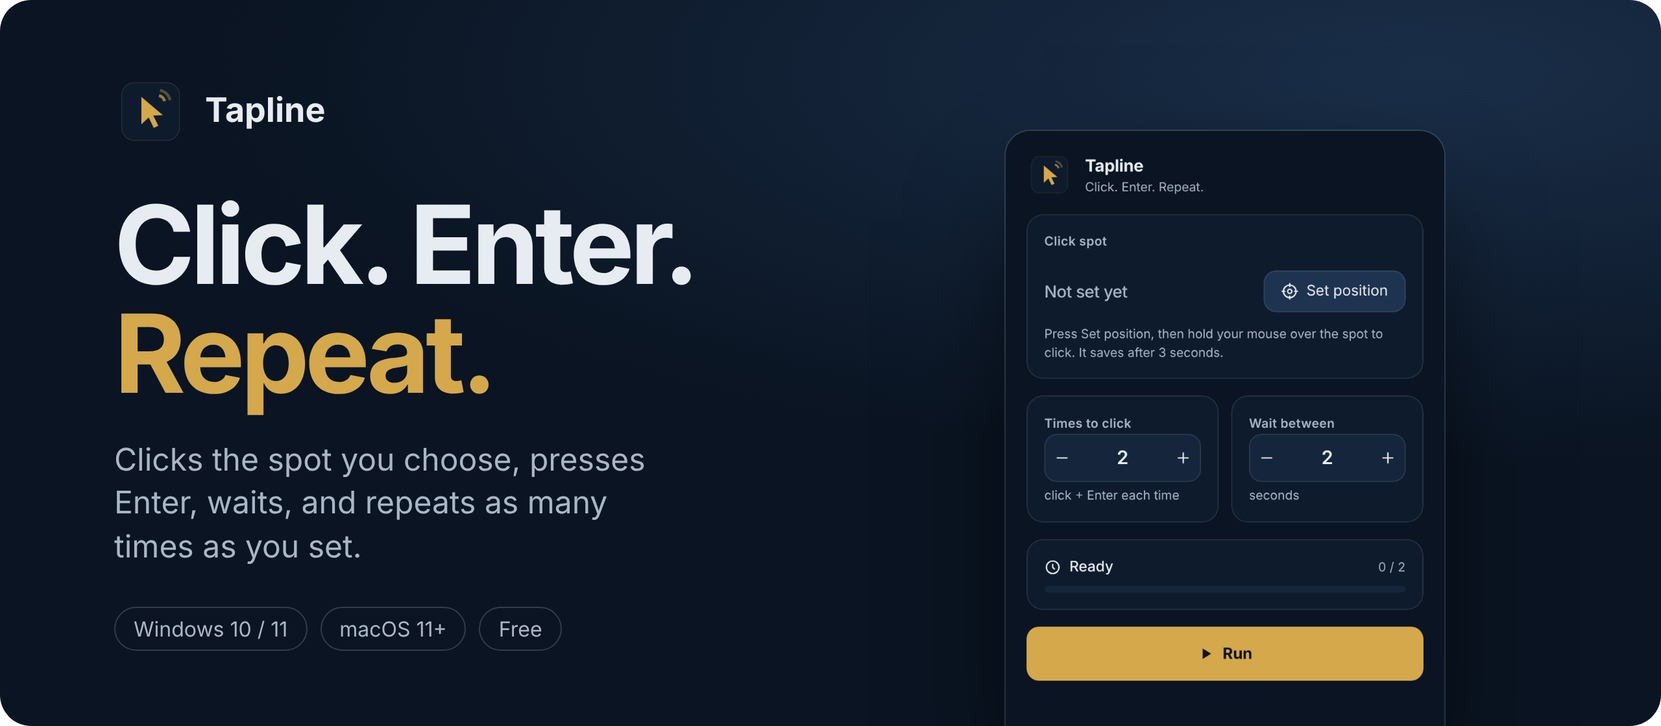
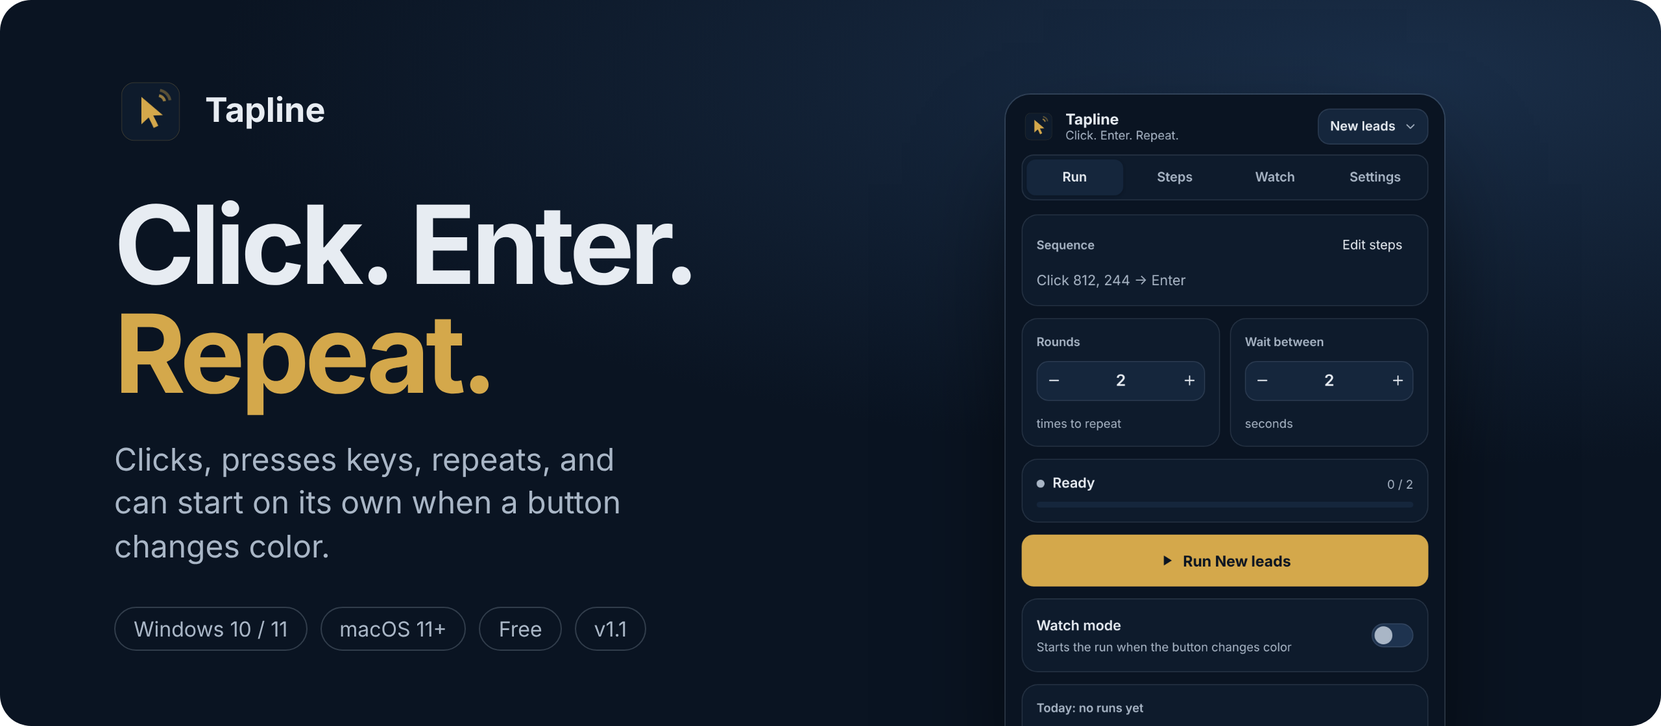
Fix self-triggered stops; README and website for 1.1; credit HanyJr
- Keys Tapline presses itself (Esc, the start/stop key) no longer stop
  the run; corner stop ignores spots Tapline placed the mouse on
- README and website describe Watch mode, steps, presets, mouse travel,
  emergency stop, tray, open at login and update notices
- Download links use fixed names Tapline-Windows-Setup.exe / Tapline-Mac.dmg
- Newer builds cancel older in-progress ones

Claude-Session: https://claude.ai/code/session_01AuYpcQuF6em3Bmbf2tiHe3

diff --git a/docs/index.html b/docs/index.html
@@ -4,7 +4,7 @@
 <meta charset="utf-8">
 <meta name="viewport" content="width=device-width, initial-scale=1">
 <title>Tapline - Click. Enter. Repeat.</title>
-<meta name="description" content="Tapline clicks the spot you choose, presses Enter, waits, and repeats as many times as you set. Free for Windows and Mac.">
+<meta name="description" content="Tapline runs your clicks and key presses, repeats them, and can start on its own when a button changes color. Free for Windows and Mac.">
[1 lines of base64/hex data omitted]
 <link rel="preconnect" href="https://fonts.googleapis.com">
 <link rel="preconnect" href="https://fonts.gstatic.com" crossorigin>
@@ -123,6 +123,18 @@ nav .wrap{display:flex;align-items:center;gap:20px;min-height:64px}
 .f.wide{grid-column:span 3}
 .f p{color:var(--muted)}
 .f svg{width:26px;height:26px;color:var(--gold-ink)}
+.watchband{display:grid;grid-template-columns:minmax(0,1fr) minmax(0,1fr);gap:clamp(24px,5vw,64px);align-items:center}
+@media(max-width:860px){.watchband{grid-template-columns:minmax(0,1fr)}}
+.ticks{list-style:none;padding:0;margin-top:22px;display:grid;gap:10px}
+.ticks li{display:grid;grid-template-columns:22px 1fr;gap:10px;color:var(--muted)}
+.ticks li::before{content:"";width:18px;height:18px;margin-top:3px;border-radius:50%;border:1.5px solid var(--gold-ink);background:radial-gradient(circle,var(--gold-ink) 0 3px,transparent 4px)}
+.wfig{background:var(--surface);border:1px solid var(--line);border-radius:24px;padding:clamp(24px,4vw,44px);display:flex;align-items:center;justify-content:space-between;gap:12px;flex-wrap:wrap;box-shadow:var(--shadow)}
+.wstate{display:grid;gap:12px;justify-items:center;text-align:center;flex:1}
+.wstate small{color:var(--muted);font-size:13px}
+.wbtn{display:inline-flex;align-items:center;gap:8px;padding:12px 18px;border-radius:12px;background:var(--raised);border:1px solid var(--line);font-weight:600;white-space:nowrap}
+.wbtn.hot{background:#c8423a;color:#fff;border-color:transparent;box-shadow:0 0 0 6px rgba(200,66,58,.18)}
+.wbtn b{background:#fff;color:#c8423a;border-radius:99px;font-size:12px;padding:1px 7px}
+.warrow{width:48px;height:24px;color:var(--gold-ink);flex:none}
 .big{font:700 clamp(40px,5vw,56px)/1 "Inter Tight",sans-serif;color:var(--gold-ink);letter-spacing:-.03em}
 @media(max-width:900px){.f,.f.wide{grid-column:span 3}}
 @media(max-width:600px){.f,.f.wide{grid-column:span 6}}
@@ -159,14 +171,14 @@ details p{color:var(--muted);padding:0 0 20px;max-width:64ch}
 .final .btn.primary:hover{background:#e0b85c}
 footer{padding:36px 0 48px;color:var(--muted);font-size:14px;display:flex;flex-wrap:wrap;gap:12px 24px;justify-content:space-between}
 footer a{text-decoration:none}footer a:hover{color:var(--ink)}
-@media(max-width:360px){.btn{white-space:normal;padding:0 16px}.brand{font-size:16px}}
+@media(max-width:360px){.btn{white-space:normal;padding:0 16px}.brand{font-size:16px}.wfig{padding:18px}.wbtn{padding:10px 12px;font-size:14px}}
 @media(prefers-reduced-motion:reduce){*{transition:none!important;animation:none!important}html{scroll-behavior:auto}}
 </style>
 </head>
 <body>
 <nav><div class="wrap">
[1 lines of base64/hex data omitted]
-  <div class="links"><a href="#how">How it works</a><a href="#features">Features</a><a href="#install">Install</a><a href="#faq">Questions</a></div>
+  <div class="links"><a href="#how">How it works</a><a href="#watch">Watch mode</a><a href="#features">Features</a><a href="#install">Install</a><a href="#faq">Questions</a></div>
   <a class="btn primary sm" href="#install">Download</a>
 </div></nav>
 
@@ -174,12 +186,12 @@ footer a{text-decoration:none}footer a:hover{color:var(--ink)}
   <header class="hero">
     <h1>Click. Enter. <span>Repeat.</span></h1>
     <div class="hero-side">
-    <p class="lede">Tapline clicks the spot you choose, presses Enter, waits, and does it again as many times as you set. One key starts it. The same key stops it.</p>
+    <p class="lede">Tapline clicks the spot you choose, presses Enter, waits, and does it again as many times as you set. Or let it watch the button and start the moment it changes color.</p>
     <div class="ctas">
       <a class="btn primary" id="dl-main" href="#install"><svg viewBox="0 0 24 24" fill="none" stroke="currentColor" stroke-width="2" stroke-linecap="round" stroke-linejoin="round" aria-hidden="true"><path d="M12 3v12M7 10l5 5 5-5M5 21h14"/></svg><span class="t" id="dl-main-t">Download Tapline<small>Windows and Mac</small></span></a>
       <a class="btn" href="#how">See how it works</a>
     </div>
-    <p class="meta">Free · Windows 10 and 11 · macOS 11 or later, Apple Silicon and Intel · No account</p>
+    <p class="meta">Free · Version 1.1 · Windows 10 and 11 · macOS 11 or later, Apple Silicon and Intel · No account</p>
     </div>
   </header>
 
@@ -194,31 +206,57 @@ footer a{text-decoration:none}footer a:hover{color:var(--ink)}
     <div class="app" aria-hidden="true">
[1 lines of base64/hex data omitted]
       <div class="cell"><div class="cell-l">Click spot</div><div class="pos">812, 244</div></div>
-      <div class="duo"><div class="cell"><div class="cell-l">Times to click</div><div class="num">3</div></div><div class="cell"><div class="cell-l">Wait between</div><div class="num">2 sec</div></div></div>
+      <div class="duo"><div class="cell"><div class="cell-l">Rounds</div><div class="num">3</div></div><div class="cell"><div class="cell-l">Wait between</div><div class="num">2 sec</div></div></div>
       <div class="cell"><div class="st"><span id="d-st">Ready</span><span id="d-ct">0 / 3</span></div><div class="meter"><i id="d-bar"></i></div></div>
       <div class="run" id="d-run">Run</div>
     </div>
     <svg class="cursor" id="cursor" viewBox="0 0 24 24" aria-hidden="true"><path d="M5 3v17l4.7-4.4 3.2 6.7 2.9-1.4-3.2-6.6 6.4-.3z" fill="#fff" stroke="#0a1422" stroke-width="1.4" stroke-linejoin="round"/></svg>
     <div class="key" id="key">Enter</div>
   </section>
-  <p class="cap">A live demo: Tapline set to 3 clicks, 2 seconds apart.</p>
+  <p class="cap">A live demo: Tapline set to 3 rounds of click and Enter, 2 seconds apart.</p>
 
   <section class="band" id="how">
     <h2>Set it up once. Run it all day.</h2>
     <div class="steps">
-      <div class="step"><h3>Pick the spot</h3><p>Press Set position and hold your mouse over the button you want clicked. Tapline saves it after 3 seconds and remembers it next time.</p></div>
-      <div class="step"><h3>Choose how many and how fast</h3><p>Set how many times to click, from 1 to 999, and how long to wait between each, from no wait to 10 minutes.</p></div>
-      <div class="step"><h3>Press F8</h3><p>Tapline clicks, presses Enter, waits and repeats. Press F8 again or Stop to end early. You can stay in your work window the whole time.</p></div>
+      <div class="step"><h3>Build your steps</h3><p>Point at the button and Tapline remembers it. Add Enter, Tab, a shortcut, some text or a wait. Each step can have its own pause, and the mouse can jump or glide.</p></div>
+      <div class="step"><h3>Choose how many</h3><p>Repeat 1 to 999 rounds, with anything from no wait to 10 minutes between them. Save each setup as a preset.</p></div>
+      <div class="step"><h3>Press F8, or let Watch start it</h3><p>Run it yourself with one key, from any window. Or switch Watch on and Tapline starts by itself when the button changes color.</p></div>
+    </div>
+  </section>
+
+  <section class="band watchband" id="watch" style="padding-top:0">
+    <div>
+      <h2>It can start without you.</h2>
+      <p class="lede" style="margin-top:16px">Watch mode keeps an eye on one spot. When the button turns its "new" color, Tapline runs your steps, waits for the button to go back to normal, rests for a cooldown, and is ready again.</p>
+      <ul class="ticks">
+        <li><span>Sensitivity control for small color differences</span></li>
+        <li><span>Cooldown so it never fires twice for the same thing</span></li>
+        <li><span>A sound and a notification each time it starts</span></li>
+        <li><span><kbd>Esc</kbd> switches everything off instantly</span></li>
+      </ul>
+    </div>
+    <div class="wfig" aria-hidden="true">
+      <div class="wstate"><span class="wbtn">New leads</span><small>Normal: Tapline waits</small></div>
+      <svg class="warrow" viewBox="0 0 48 24"><path d="M2 12h40M34 4l8 8-8 8" fill="none" stroke="currentColor" stroke-width="2.5" stroke-linecap="round" stroke-linejoin="round"/></svg>
+      <div class="wstate"><span class="wbtn hot">New leads <b>3</b></span><small>Turns red: Tapline runs</small></div>
     </div>
   </section>
 
   <section class="band" id="features" style="padding-top:0">
     <h2>Small, quiet, and exact.</h2>
     <div class="grid">
-      <div class="f wide"><div class="big">1 – 999</div><h3>As many rounds as you need</h3><p>Every round is one click and one Enter, with your wait in between. Watch the count and progress bar as it goes.</p></div>
-      <div class="f wide"><div class="big">F8</div><h3>Start and stop from anywhere</h3><p>No need to switch windows. On a Mac keyboard press <kbd>fn</kbd> + <kbd>F8</kbd>. The Run and Stop buttons always work too.</p></div>
-      <div class="f"><svg viewBox="0 0 24 24" fill="none" stroke="currentColor" stroke-width="2" stroke-linecap="round" stroke-linejoin="round" aria-hidden="true"><rect x="3" y="4" width="18" height="14" rx="2"/><path d="M8 21h8"/></svg><h3>Floats on top</h3><p>A small window that stays above your work, so the progress is always in view.</p></div>
-      <div class="f"><svg viewBox="0 0 24 24" fill="none" stroke="currentColor" stroke-width="2" stroke-linecap="round" stroke-linejoin="round" aria-hidden="true"><path d="M12 3l8 3v6c0 4.5-3.4 8-8 9-4.6-1-8-4.5-8-9V6z"/></svg><h3>Private by design</h3><p>No account and no internet. Everything stays on your computer.</p></div>
+      <div class="f wide"><div class="big">1 – 999</div><h3>As many rounds as you need</h3><p>Every round runs your steps, then waits as long as you set. Watch the count and progress bar as it goes.</p></div>
+      <div class="f wide"><div class="big">F8</div><h3>Start and stop from anywhere</h3><p>Choose F1 to F12, with or without Ctrl, Shift or Alt. On a Mac keyboard hold <kbd>fn</kbd>. The Run and Stop buttons always work too.</p></div>
+      <div class="f"><svg viewBox="0 0 24 24" fill="none" stroke="currentColor" stroke-width="2" stroke-linecap="round" stroke-linejoin="round" aria-hidden="true"><path d="M4 6h16M4 12h10M4 18h6"/></svg><h3>Steps</h3><p>Left, right or double click, any key with Ctrl, Shift, Alt or Cmd, typed text and waits.</p></div>
+      <div class="f"><svg viewBox="0 0 24 24" fill="none" stroke="currentColor" stroke-width="2" stroke-linecap="round" stroke-linejoin="round" aria-hidden="true"><path d="M4 20c4-1 6-5 8-8s4-7 8-8"/><circle cx="20" cy="4" r="1.5"/></svg><h3>Mouse travel time</h3><p>Set how many milliseconds the mouse takes to glide to each spot, or jump instantly.</p></div>
+      <div class="f"><svg viewBox="0 0 24 24" fill="none" stroke="currentColor" stroke-width="2" stroke-linecap="round" stroke-linejoin="round" aria-hidden="true"><rect x="4" y="4" width="16" height="6" rx="1.5"/><rect x="4" y="14" width="16" height="6" rx="1.5"/></svg><h3>Presets</h3><p>Keep several setups, like New leads and Refresh queue, and switch in one click.</p></div>
+      <div class="f"><svg viewBox="0 0 24 24" fill="none" stroke="currentColor" stroke-width="2" stroke-linecap="round" stroke-linejoin="round" aria-hidden="true"><circle cx="12" cy="12" r="9"/><path d="M9 9l6 6M15 9l-6 6"/></svg><h3>Emergency stop</h3><p>Press <kbd>Esc</kbd>, or slam the mouse into a screen corner, and everything stops.</p></div>
+      <div class="f"><svg viewBox="0 0 24 24" fill="none" stroke="currentColor" stroke-width="2" stroke-linecap="round" stroke-linejoin="round" aria-hidden="true"><path d="M6 8a6 6 0 1 1 12 0c0 7 3 9 3 9H3s3-2 3-9M10 21h4"/></svg><h3>Sound and notification</h3><p>Know the moment Watch starts a run, even with the window hidden.</p></div>
+      <div class="f"><svg viewBox="0 0 24 24" fill="none" stroke="currentColor" stroke-width="2" stroke-linecap="round" stroke-linejoin="round" aria-hidden="true"><circle cx="12" cy="12" r="9"/><path d="M12 7v5l3 2"/></svg><h3>History</h3><p>See today's runs, what started them and when the last one happened.</p></div>
+      <div class="f"><svg viewBox="0 0 24 24" fill="none" stroke="currentColor" stroke-width="2" stroke-linecap="round" stroke-linejoin="round" aria-hidden="true"><rect x="3" y="4" width="18" height="14" rx="2"/><path d="M8 21h8"/></svg><h3>Tray and menu bar</h3><p>Close the window and keep it running. Run, watch or quit from the icon.</p></div>
+      <div class="f"><svg viewBox="0 0 24 24" fill="none" stroke="currentColor" stroke-width="2" stroke-linecap="round" stroke-linejoin="round" aria-hidden="true"><path d="M12 3v9M6.3 7.3a8 8 0 1 0 11.4 0"/></svg><h3>Open at login</h3><p>Ready as soon as you turn on your computer.</p></div>
+      <div class="f"><svg viewBox="0 0 24 24" fill="none" stroke="currentColor" stroke-width="2" stroke-linecap="round" stroke-linejoin="round" aria-hidden="true"><path d="M21 12a9 9 0 1 1-3-6.7L21 8M21 3v5h-5"/></svg><h3>Update notices</h3><p>Tapline tells you when a new version is out, with a one-click download.</p></div>
+      <div class="f"><svg viewBox="0 0 24 24" fill="none" stroke="currentColor" stroke-width="2" stroke-linecap="round" stroke-linejoin="round" aria-hidden="true"><path d="M12 3l8 3v6c0 4.5-3.4 8-8 9-4.6-1-8-4.5-8-9V6z"/></svg><h3>Private by design</h3><p>No account, nothing sent anywhere. The only connection is the update check.</p></div>
       <div class="f"><svg viewBox="0 0 24 24" fill="none" stroke="currentColor" stroke-width="2" stroke-linecap="round" stroke-linejoin="round" aria-hidden="true"><path d="M13 2 4 14h7l-1 8 9-12h-7z"/></svg><h3>Light and instant</h3><p>Built with Tauri and Rust, so it opens straight away and barely touches your memory.</p></div>
     </div>
   </section>
@@ -232,20 +270,21 @@ footer a{text-decoration:none}footer a:hover{color:var(--ink)}
       </div>
       <div class="panel" id="p-win" role="tabpanel" aria-labelledby="tab-win">
         <ol>
-          <li>Download the installer.</li>
+          <li>Download <b>Tapline-Windows-Setup.exe</b>.</li>
           <li>Open it. If you see <b>Windows protected your PC</b>, press <b>More info</b>, then <b>Run anyway</b>.</li>
           <li>Tapline installs for your user only, no admin needed, and appears in the Start menu.</li>
         </ol>
-        <a class="btn primary" href="https://github.com/HanyJr/tapline/releases/latest/download/Tapline_1.0.0_x64-setup.exe"><svg viewBox="0 0 24 24" fill="currentColor" aria-hidden="true"><path d="M3 5.5 10.5 4.4v7.1H3zM11.5 4.3 21 3v8.5h-9.5zM3 12.5h7.5v7.1L3 18.5zM11.5 12.5H21V21l-9.5-1.3z"/></svg><span class="t">Download for Windows<small>Installer, .exe</small></span></a>
+        <a class="btn primary" href="https://github.com/HanyJr/tapline/releases/latest/download/Tapline-Windows-Setup.exe"><svg viewBox="0 0 24 24" fill="currentColor" aria-hidden="true"><path d="M3 5.5 10.5 4.4v7.1H3zM11.5 4.3 21 3v8.5h-9.5zM3 12.5h7.5v7.1L3 18.5zM11.5 12.5H21V21l-9.5-1.3z"/></svg><span class="t">Download for Windows<small>Installer, .exe</small></span></a>
       </div>
       <div class="panel" id="p-mac" role="tabpanel" aria-labelledby="tab-mac" hidden>
         <ol>
-          <li>Download the disk image. It runs on Apple Silicon and Intel.</li>
+          <li>Download <b>Tapline-Mac.dmg</b>. It runs on Apple Silicon and Intel.</li>
           <li>Open it and drag <b>Tapline</b> into <b>Applications</b>.</li>
           <li>First launch: right-click Tapline, choose <b>Open</b>, then <b>Open</b> again. On macOS 15 or later use <b>System Settings, Privacy &amp; Security, Open Anyway</b>.</li>
           <li>When asked, allow Tapline under <b>Privacy &amp; Security, Accessibility</b>. That's what lets it click for you.</li>
+          <li>For Watch mode, also allow it under <b>Screen Recording</b>, then reopen Tapline. It only reads the color of the spot you chose.</li>
         </ol>
-        <a class="btn primary" href="https://github.com/HanyJr/tapline/releases/latest/download/Tapline_1.0.0_universal.dmg"><svg viewBox="0 0 24 24" fill="currentColor" aria-hidden="true"><path d="M16.4 12.6c0-2.4 2-3.6 2.1-3.7-1.1-1.7-2.9-1.9-3.5-1.9-1.5-.2-2.9.9-3.7.9-.8 0-1.9-.9-3.2-.8-1.6 0-3.1 1-4 2.4-1.7 3-.4 7.4 1.2 9.8.8 1.2 1.8 2.5 3 2.4 1.2 0 1.7-.8 3.1-.8s1.9.8 3.2.8c1.3 0 2.1-1.2 2.9-2.4.9-1.4 1.3-2.7 1.3-2.8 0 0-2.4-1-2.4-3.9zM14 5.5c.7-.8 1.1-1.9 1-3-.9 0-2.1.6-2.8 1.4-.6.7-1.2 1.8-1 2.9 1.1.1 2.1-.5 2.8-1.3z"/></svg><span class="t">Download for Mac<small>Disk image, .dmg</small></span></a>
+        <a class="btn primary" href="https://github.com/HanyJr/tapline/releases/latest/download/Tapline-Mac.dmg"><svg viewBox="0 0 24 24" fill="currentColor" aria-hidden="true"><path d="M16.4 12.6c0-2.4 2-3.6 2.1-3.7-1.1-1.7-2.9-1.9-3.5-1.9-1.5-.2-2.9.9-3.7.9-.8 0-1.9-.9-3.2-.8-1.6 0-3.1 1-4 2.4-1.7 3-.4 7.4 1.2 9.8.8 1.2 1.8 2.5 3 2.4 1.2 0 1.7-.8 3.1-.8s1.9.8 3.2.8c1.3 0 2.1-1.2 2.9-2.4.9-1.4 1.3-2.7 1.3-2.8 0 0-2.4-1-2.4-3.9zM14 5.5c.7-.8 1.1-1.9 1-3-.9 0-2.1.6-2.8 1.4-.6.7-1.2 1.8-1 2.9 1.1.1 2.1-.5 2.8-1.3z"/></svg><span class="t">Download for Mac<small>Disk image, .dmg</small></span></a>
       </div>
       <p class="note">Other versions and release notes are on the <a href="https://github.com/HanyJr/tapline/releases">releases page</a>.</p>
     </div>
@@ -254,7 +293,9 @@ footer a{text-decoration:none}footer a:hover{color:var(--ink)}
   <section class="band" id="faq" style="padding-top:0">
     <h2>Questions</h2>
     <div class="faq">
-      <details><summary>Where does it click?</summary><p>Exactly where your mouse was when you set the position. If the window you click in moves or changes size, set the position again.</p></details>
+      <details><summary>Where does it click?</summary><p>Exactly where your mouse was when you set the spot. If the window you click in moves or changes size, set the spot again.</p></details>
+      <details><summary>How does Watch know something new arrived?</summary><p>It checks the color of one spot about four times a second. When it matches the color you saved, it runs your steps. Then it waits for the spot to change back and for the cooldown before it can run again.</p></details>
+      <details><summary>Does Watch work if the window is covered or the screen is locked?</summary><p>No. Tapline can only see what is on screen, so keep that spot visible and the computer unlocked while it watches.</p></details>
       <details><summary>Can I stop it halfway?</summary><p>Yes. Press F8 or Stop at any moment, including during a wait. Tapline tells you how many rounds it finished.</p></details>
       <details><summary>Why does my Mac ask for Accessibility access?</summary><p>macOS only lets apps click and type for you once you allow them. Tapline uses that permission for clicking and pressing Enter, nothing else.</p></details>
       <details><summary>Why does Windows or macOS warn me the first time?</summary><p>Tapline isn't code-signed yet, so both systems ask you to confirm the first launch. The install steps above show how. You only do it once.</p></details>
@@ -264,11 +305,11 @@ footer a{text-decoration:none}footer a:hover{color:var(--ink)}
 
   <section class="final">
     <h2>Give your mouse hand a break.</h2>
-    <p>Set the spot, pick how many and press F8. Tapline does the rest.</p>
-    <div class="ctas"><a class="btn primary" href="https://github.com/HanyJr/tapline/releases/latest/download/Tapline_1.0.0_x64-setup.exe">Download for Windows</a><a class="btn" href="https://github.com/HanyJr/tapline/releases/latest/download/Tapline_1.0.0_universal.dmg">Download for Mac</a></div>
+    <p>Set your steps, pick how many and press F8, or let Watch start it for you.</p>
+    <div class="ctas"><a class="btn primary" href="https://github.com/HanyJr/tapline/releases/latest/download/Tapline-Windows-Setup.exe">Download for Windows</a><a class="btn" href="https://github.com/HanyJr/tapline/releases/latest/download/Tapline-Mac.dmg">Download for Mac</a></div>
   </section>
 
-  <footer><span>Copyright 2026 Ian Brown · Tapline 1.0</span><a href="https://github.com/HanyJr/tapline">GitHub</a></footer>
+  <footer><span>Copyright 2026 HanyJr · Tapline 1.1</span><a href="https://github.com/HanyJr/tapline">GitHub</a></footer>
 </main>
 
 <script>
@@ -279,8 +320,8 @@ footer a{text-decoration:none}footer a:hover{color:var(--ink)}
   // Main button: offer the visitor's own system
   const ua = navigator.userAgent, isMac = /Mac/.test(ua) && !/iPhone|iPad/.test(ua), isWin = /Windows/.test(ua);
   if (isMac || isWin) {
-    $("dl-main").href = isMac ? "https://github.com/HanyJr/tapline/releases/latest/download/Tapline_1.0.0_universal.dmg" : "https://github.com/HanyJr/tapline/releases/latest/download/Tapline_1.0.0_x64-setup.exe";
-    $("dl-main-t").innerHTML = (isMac ? "Download for Mac" : "Download for Windows") + "<small>Free · version 1.0</small>";
+    $("dl-main").href = isMac ? "https://github.com/HanyJr/tapline/releases/latest/download/Tapline-Mac.dmg" : "https://github.com/HanyJr/tapline/releases/latest/download/Tapline-Windows-Setup.exe";
+    $("dl-main-t").innerHTML = (isMac ? "Download for Mac" : "Download for Windows") + "<small>Free · version 1.1</small>";
   }
   if (isMac) selectTab("mac");
 

diff --git a/src-tauri/src/lib.rs b/src-tauri/src/lib.rs
@@ -180,6 +180,7 @@ struct Shared {
     log: Mutex<Vec<LogEntry>>,
     dir: PathBuf,
     hotkey: Mutex<Option<Shortcut>>,
+    quiet_until: Mutex<Instant>, // ignore our own key presses reaching the global shortcuts
     tray: Mutex<Option<(MenuItem<Wry>, MenuItem<Wry>)>>,
 }
 
@@ -356,6 +357,7 @@ fn start_run(app: &AppHandle, trigger: &str) -> Result<(), String> {
         let outcome: Result<bool, String> = (|| {
             let mut enigo = new_enigo()?;
             let screen = enigo.main_display().unwrap_or((0, 0));
+            let placed: std::cell::Cell<Option<(i32, i32)>> = std::cell::Cell::new(None);
             let stop_now = |enigo: &Enigo| -> bool {
                 if sh.stop.load(Ordering::SeqCst) {
                     return true;
@@ -365,7 +367,9 @@ fn start_run(app: &AppHandle, trigger: &str) -> Result<(), String> {
                         let (w, h) = screen;
                         let near = |a: i32, b: i32| (a - b).abs() <= 2;
                         let in_corner = (near(x, 0) || near(x, w - 1)) && (near(y, 0) || near(y, h - 1));
-                        if in_corner {
+                        // ignore it when Tapline itself put the mouse there
+                        let ours = placed.get().map(|(px, py)| near(x, px) && near(y, py)).unwrap_or(false);
+                        if in_corner && !ours {
                             sh.stop.store(true, Ordering::SeqCst);
                             return true;
                         }
@@ -393,6 +397,10 @@ fn start_run(app: &AppHandle, trigger: &str) -> Result<(), String> {
                         return Ok(false);
                     }
                     emit("busy", format!("Round {} of {} · step {}", r + 1, total, i + 1), done, false);
+                    let typing = st.kind == "key" || st.kind == "text";
+                    if typing {
+                        *sh.quiet_until.lock().unwrap() = Instant::now() + Duration::from_secs(30);
+                    }
                     let res: Result<(), enigo::InputError> = match st.kind.as_str() {
                         "click" => (|| {
                             let (tx, ty) = (st.x.unwrap_or(0), st.y.unwrap_or(0));
@@ -413,6 +421,7 @@ fn start_run(app: &AppHandle, trigger: &str) -> Result<(), String> {
                                 }
                             }
                             enigo.move_mouse(tx, ty, Coordinate::Abs)?;
+                            placed.set(Some((tx, ty)));
                             thread::sleep(Duration::from_millis(40));
                             match st.button.as_str() {
                                 "right" => enigo.button(Button::Right, Direction::Click)?,
@@ -445,6 +454,9 @@ fn start_run(app: &AppHandle, trigger: &str) -> Result<(), String> {
                         }
                         _ => Ok(()),
                     };
+                    if typing {
+                        *sh.quiet_until.lock().unwrap() = Instant::now() + Duration::from_millis(300);
+                    }
                     res.map_err(|e| format!("Could not do step {}: {e}", i + 1))?;
                     if st.kind != "wait" && !pause(&enigo, st.delay) {
                         return Ok(false);
@@ -832,6 +844,11 @@ pub fn run_app() {
                     if event.state() != ShortcutState::Pressed {
                         return;
                     }
+                    // a key Tapline itself just pressed, not the user
+                    let quiet = app.state::<Arc<Shared>>().quiet_until.lock().map(|t| Instant::now() < *t).unwrap_or(false);
+                    if quiet {
+                        return;
+                    }
                     if *shortcut == esc() {
                         stop_everything(app);
                         return;
@@ -857,6 +874,7 @@ pub fn run_app() {
                 log: Mutex::new(log),
                 dir,
                 hotkey: Mutex::new(None),
+                quiet_until: Mutex::new(Instant::now()),
                 tray: Mutex::new(None),
             });
             app.manage(shared.clone());

diff --git a/README.md b/README.md
@@ -3,48 +3,65 @@
 </p>
 
 <p align="center">
-  <a href="https://github.com/HanyJr/tapline/releases/latest/download/Tapline_1.0.0_x64-setup.exe"><img src=".github/assets/download-windows.png" alt="Download for Windows" height="56"></a>
+  <a href="https://github.com/HanyJr/tapline/releases/latest/download/Tapline-Windows-Setup.exe"><img src=".github/assets/download-windows.png" alt="Download for Windows" height="56"></a>
   &nbsp;
-  <a href="https://github.com/HanyJr/tapline/releases/latest/download/Tapline_1.0.0_universal.dmg"><img src=".github/assets/download-mac.png" alt="Download for Mac" height="56"></a>
+  <a href="https://github.com/HanyJr/tapline/releases/latest/download/Tapline-Mac.dmg"><img src=".github/assets/download-mac.png" alt="Download for Mac" height="56"></a>
 </p>
 
 <p align="center">
-  <b>Version 1.0.0</b> &nbsp;·&nbsp; Free &nbsp;·&nbsp; Windows 10 and 11 &nbsp;·&nbsp; macOS 11 or later &nbsp;·&nbsp; <a href="https://github.com/HanyJr/tapline/releases">All releases</a>
+  <b>Version 1.1</b> &nbsp;·&nbsp; Free &nbsp;·&nbsp; Windows 10 and 11 &nbsp;·&nbsp; macOS 11 or later &nbsp;·&nbsp; <a href="https://hanyjr.github.io/tapline/">Website</a> &nbsp;·&nbsp; <a href="https://github.com/HanyJr/tapline/releases">All releases</a>
 </p>
 
 <br>
 
 ## What it does
 
-Tapline clicks the spot you choose, presses **Enter**, waits, and does it again as many times as you set. One key starts it, the same key stops it.
+Tapline runs a short sequence of clicks and key presses, repeats it as many times as you set, and can **start on its own when a button on your screen changes color**. One key starts it, the same key stops it, and <kbd>Esc</kbd> stops everything.
+
+## Features
 
 | | |
 |---|---|
-| **Pick the spot once** | Press *Set position*, hold your mouse over the button you want clicked. Saved for next time. |
-| **Any number of rounds** | Choose how many times to click, from 1 to 999. |
-| **Your pace** | Wait between rounds from 0 seconds to 10 minutes. |
-| **F8 from anywhere** | Start and stop without switching windows. On a Mac keyboard: <kbd>fn</kbd> + <kbd>F8</kbd>. |
-| **Always on top** | A small window that floats above your work and shows live progress. |
-| **Private** | No account, no internet. Everything runs on your computer. |
+| **Watch mode** | Pick a spot and its "new" color. When that spot turns that color, Tapline runs your sequence by itself, then waits for it to go back to normal and a cooldown before it can fire again. |
+| **Steps** | Build a sequence: click (left, right or double), press a key with Ctrl / Shift / Alt / Cmd, type text, or wait. Each step has its own pause. |
+| **Mouse travel time** | Set how many milliseconds the mouse takes to glide to each spot, or 0 to jump instantly. |
+| **Rounds and timing** | Repeat 1 to 999 times, with 0 seconds to 10 minutes between rounds. |
+| **Presets** | Save several setups, such as "New leads" and "Refresh queue", and switch in one click. |
+| **Your own key** | Start and stop with F1 to F12, with or without Ctrl, Shift or Alt. Works from any window. |
+| **Emergency stop** | <kbd>Esc</kbd> stops the run and switches Watch off. Or slam the mouse into any screen corner. |
+| **Sound and notification** | Know the moment Watch starts a run. |
+| **History** | See today's runs and when the last one happened. |
+| **Tray / menu bar** | Close the window and keep Tapline running. Run, watch or quit from the icon. |
+| **Open at login** | Ready as soon as you turn on your computer. |
+| **Update notices** | Tapline tells you when a new version is out, with a one-click download. |
+| **Private** | No account and nothing sent anywhere. The only connection is the update check to GitHub. |
 
 ## Install
 
 ### Windows
-1. Download **Tapline_1.0.0_x64-setup.exe** with the button above.
+1. Download **Tapline-Windows-Setup.exe** with the button above.
 2. Open it. If you see *Windows protected your PC*, press **More info**, then **Run anyway**.
 3. Tapline installs for your user only (no admin needed) and appears in the Start menu.
 
 ### Mac
-1. Download **Tapline_1.0.0_universal.dmg** with the button above. It runs on Apple Silicon and Intel.
-2. Open the .dmg and drag **Tapline** into **Applications**.
+1. Download **Tapline-Mac.dmg** with the button above. It runs on Apple Silicon and Intel.
+2. Open it and drag **Tapline** into **Applications**.
 3. First launch: right-click Tapline, choose **Open**, then **Open** again. On macOS 15 or later, go to *System Settings > Privacy & Security* and press **Open Anyway**.
-4. When asked, allow Tapline under *System Settings > Privacy & Security > Accessibility*. This is what lets it click for you.
+4. Allow Tapline under *Privacy & Security > Accessibility* so it can click and type.
+5. For Watch mode, also allow it under *Privacy & Security > Screen Recording*, then reopen Tapline. This only lets it read the color of the spot you chose.
 
 ## How to use
 
-1. **Set position**, then hold the mouse over the spot. It saves after 3 seconds.
-2. Set **Times to click** and **Wait between**.
-3. Press **Run** or **F8**. Press **Stop** or **F8** again to end early.
+**Run it yourself**
+1. Open **Steps** and press **Set spot**, then hold the mouse over the button. It saves after 3 seconds.
+2. Add any other steps you need, such as Enter or a wait.
+3. On **Run**, set **Rounds** and **Wait between**, then press **Run** or your key (F8 by default).
+
+**Let Watch start it**
+1. Make the button show its "new" color.
+2. Open **Watch**, press **Set from screen** and hold the mouse on the button for 3 seconds.
+3. Press **Start watching**. Keep that spot visible on screen.
+4. If it fires too easily or not at all, change **Sensitivity**. Raise **Cooldown** to make it wait longer between runs.
 
 ## For developers
 
@@ -52,13 +69,13 @@ Built with [Tauri 2](https://tauri.app) (Rust) and a plain HTML/CSS/JS interface
 
 ```
 ui/            App window
-src-tauri/     Rust backend: clicking, Enter, timing, F8, saved settings
-docs/          Product website (ready for GitHub Pages)
+src-tauri/     Rust: sequence engine, Watch mode (screen color), hotkeys, tray, settings
+docs/          Product website (GitHub Pages)
 scripts/       Logo generator
 ```
 
-Every push to `main` builds the Windows installer and the universal Mac app on GitHub Actions and attaches them to a draft release. To build locally: install Rust and Node 22, then run `npm ci` and `npx tauri build`.
+Every push to `main` builds the Windows installer and the universal Mac app on GitHub Actions and attaches them to a draft release, including copies named `Tapline-Windows-Setup.exe` and `Tapline-Mac.dmg` that the download links use. To build locally: install Rust and Node 22, then run `npm ci` and `npx tauri build`.
 
 <br>
 
-<p align="center"><sub>Copyright 2026 Ian Brown</sub></p>
+<p align="center"><sub>Copyright 2026 HanyJr</sub></p>
